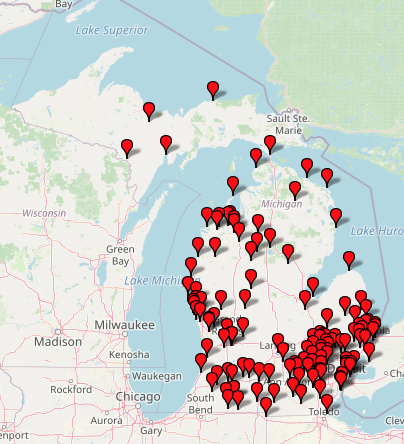
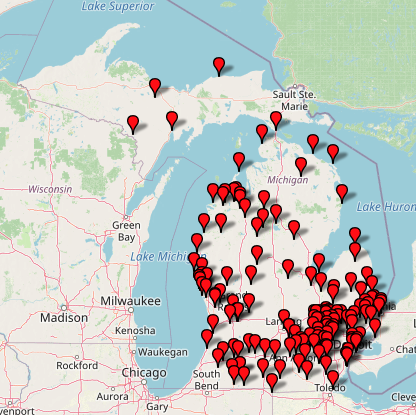
2022-06-26 6:10 PM update

diff --git a/Michigan_Tag-O-Rama_map.html b/Michigan_Tag-O-Rama_map.html
@@ -1,10 +1,10 @@
-<!DOCTYPE html>
+<!DOCTYPE html>
 <html xmlns="https://www.w3.org/1999/xhtml">
 	<head>
 		<title>Michigan_Tag-O-Rama_tags</title>
 		<base target="_top"></base>
 		<meta http-equiv="Content-Type" content="text/html; charset=UTF-8" />
-		<meta name="viewport" content="initial-scale=1.0, user-scalable=no">
+		<meta name="viewport" content="initial-scale=1.0, user-scalable=no" />
 		<meta name="geo.position" content="44.1835871; -85.1445434" />
 		<meta name="ICBM" content="44.1835871, -85.1445434" />
 	</head>
@@ -54,7 +54,7 @@
 		
 		<!-- begin GPS Visualizer setup script (must come after loading of API code) -->
 		<script type="text/javascript">
-			/* Global variables used by the GPS Visualizer functions (20211121080301): */
+			/* Global variables used by the GPS Visualizer functions (20220626150730): */
 			gv_options = {};
 			
 			// basic map parameters:
@@ -71,7 +71,7 @@
 			gv_options.doubleclick_center = true;  // true|false: re-center the map on the point that was double-clicked?
 			gv_options.scroll_zoom = true; // true|false; or 'reverse' for down=in and up=out
 			gv_options.page_scrolling = true; // true|false; does the map relenquish control of the scroll wheel when embedded in scrollable pages?
-			gv_options.autozoom_adjustment = 0;
+			gv_options.autozoom_adjustment = 0; gv_options.autozoom_default = 11;
 			gv_options.centering_options = { 'open_info_window':true, 'partial_match':true, 'center_key':'center', 'default_zoom':null } // URL-based centering (e.g., ?center=name_of_marker&zoom=14)
 			gv_options.street_view = false; // true|false: allow Google Street View on the map (Google Maps only)
 			gv_options.tilt = false; // true|false: allow Google Maps to show 45-degree tilted aerial imagery?
@@ -79,14 +79,14 @@
 			gv_options.animated_zoom = true; // true|false: only affects Leaflet maps
 			
 			// widgets on the map:
-			gv_options.zoom_control = 'large'; // 'large'|'small'|'none'
+			gv_options.zoom_control = 'auto'; // 'auto'|'large'|'small'|'none'
 			gv_options.recenter_button = true; // true|false: is there a 'click to recenter' button above the zoom control?
 			gv_options.geolocation_control = false; // true|false; only works on secure servers
 			gv_options.geolocation_options = { center:true, zoom:null, marker:true, info_window:true };
 			gv_options.scale_control = true; // true|false
 			gv_options.map_opacity_control = false;  // true|false
 			gv_options.map_type_control = {};  // widget to change the background map
-			  gv_options.map_type_control.visible = true; // true|false: is a map type control placed on the map itself?
+			  gv_options.map_type_control.visible = 'auto'; // true|false|'auto': is a map type control placed on the map itself?
 			  gv_options.map_type_control.filter = false;  // true|false: when map loads, are irrelevant maps ignored?
 			  gv_options.map_type_control.excluded = [];  // comma-separated list of quoted map IDs that will never show in the list ('included' also works)
 			gv_options.center_coordinates = true;  // true|false: show a "center coordinates" box and crosshair?
@@ -105,7 +105,7 @@
 
 			// marker-related options:
 			gv_options.default_marker = { color:'red',icon:'googlemini',scale:1 }; // icon can be a URL, but be sure to also include size:[w,h] and optionally anchor:[x,y]
-			gv_options.vector_markers = false; // are the icons on the map in embedded SVG format?
+			gv_options.vector_markers = true; // are the icons on the map in embedded SVG format?
 			gv_options.marker_tooltips = true; // do the names of the markers show up when you mouse-over them?
 			gv_options.marker_shadows = true; // true|false: do the standard markers have "shadows" behind them?
 			gv_options.marker_link_target = '_blank'; // the name of the window or frame into which markers' URLs will load
@@ -139,6 +139,7 @@
 			  gv_options.marker_list_options.collapsed_folders = []; // an array of folder names
 			  gv_options.marker_list_options.hidden_folders = []; // an array of folder names
 			  gv_options.marker_list_options.count_folder_items = false;  // true|false: list the number of items in each folder?
+			  gv_options.marker_list_options.folder_zoom = true;  // true|false: is there a zoom link next to each folder name?
 			  gv_options.marker_list_options.wrap_names = true;  // true|false: should marker's names be allowed to wrap onto more than one line?
 			  gv_options.marker_list_options.unnamed = '[unnamed]';  // what 'name' should be assigned to  unnamed markers in the list?
 			  gv_options.marker_list_options.colors = false;  // true|false: should the names/descs of the points in the list be colorized the same as their markers?
@@ -328,6 +329,25 @@
 				GV_Draw_Marker({lat:42.7480802,lon:-83.3702827,name:'10/20/2021',desc:'T.S.</br><a href=\'https://advrider.com/f/threads/michigan-tag-o-rama.890896/page-28#post-43180090\' target=\'_blank\'>Tag #131 Pine Knob east gate</a>',color:'',icon:''});
 				GV_Draw_Marker({lat:42.8158856,lon:-83.3023728,name:'10/31/2021',desc:'DJ_MI</br><a href=\'https://advrider.com/f/threads/michigan-tag-o-rama.890896/page-28#post-43237775\' target=\'_blank\'>Tag #132 Squaw Lake boat launch in Oxford</a>',color:'',icon:''});
 				GV_Draw_Marker({lat:42.5927033,lon:-83.6013930,name:'11/7/2021',desc:'T.S.</br><a href=\'https://advrider.com/f/threads/michigan-tag-o-rama.890896/page-29#post-43272084\' target=\'_blank\'>Tag #133 Milford waterfall</a>',color:'',icon:''});
+				GV_Draw_Marker({lat:42.8168332,lon:-83.6483666,name:'11/8/2021',desc:'Winger77</br><a href=\'https://advrider.com/f/threads/michigan-tag-o-rama.890896/page-29#post-43279364\' target=\'_blank\'>Tag #134 Seven Lakes State Park</a>',color:'',icon:''});
+				GV_Draw_Marker({lat:42.7195682,lon:-83.5999939,name:'12/13/2021',desc:'T.S.</br><a href=\'https://www.advrider.com/f/threads/michigan-tag-o-rama.890896/page-29#post-43461121\' target=\'_blank\'>Tag #135 Diehl\'s Orachard Cider Mill</a>',color:'',icon:''});
+				GV_Draw_Marker({lat:42.8059624,lon:-83.8816031,name:'12/15/2021',desc:'Winger77</br><a href=\'https://www.advrider.com/f/threads/michigan-tag-o-rama.890896/page-29#post-43473267\' target=\'_blank\'>Tag #136 Myers Lake Camping and Cabins</a>',color:'',icon:''});
+				GV_Draw_Marker({lat:42.2826209,lon:-84.4130630,name:'12/31/2021',desc:'Assfault</br><a href=\'https://www.advrider.com/f/threads/michigan-tag-o-rama.890896/page-29#post-43551186\' target=\'_blank\'>Tag #137 GTW Locomotive #5030 North Lawn Park on Lansing Ave In Jackson, MI http://www.rgusrail.com/migtw5030.html</a>',color:'',icon:''});
+				GV_Draw_Marker({lat:42.5491763,lon:-83.5221474,name:'3/9/2022',desc:'Winger77</br><a href=\'https://www.advrider.com/f/threads/michigan-tag-o-rama.890896/page-30#post-44185773\' target=\'_blank\'>Tag #138 Detroit Finnish Co-operative Summer Camp Association historical marker</a>',color:'',icon:''});
+				GV_Draw_Marker({lat:42.3959759,lon:-83.6636767,name:'3/10/2022',desc:'alexofnazareth</br><a href=\'https://www.advrider.com/f/threads/michigan-tag-o-rama.890896/page-30#post-44192077\' target=\'_blank\'>Tag #139 Mary-Go-Round</a>',color:'',icon:''});
+				GV_Draw_Marker({lat:42.4493948,lon:-83.8012748,name:'3/17/2022',desc:'Winger77</br><a href=\'https://www.advrider.com/f/threads/michigan-tag-o-rama.890896/page-30#post-44260151\' target=\'_blank\'>Tag #140 Hamburg Fire Department</a>',color:'',icon:''});
+				GV_Draw_Marker({lat:42.7348826,lon:-83.8820124,name:'4/10/2022',desc:'T.S.</br><a href=\'https://www.advrider.com/f/threads/michigan-tag-o-rama.890896/page-30#post-44473357\' target=\'_blank\'>Tag #141 Indian Lake Access Site DNR boat launch</a>',color:'',icon:''});
+				GV_Draw_Marker({lat:42.7058730,lon:-83.8222895,name:'4/20/2022',desc:'Winger77</br><a href=\'https://www.advrider.com/f/threads/michigan-tag-o-rama.890896/page-30#post-44564993\' target=\'_blank\'>Tag #142 Saint Augustine Catholic Church and Cemetery historical marker</a>',color:'',icon:''});
+				GV_Draw_Marker({lat:42.4897958,lon:-84.3066430,name:'5/1/2022',desc:'Assfault</br><a href=\'https://www.advrider.com/f/threads/michigan-tag-o-rama.890896/page-30#post-44656661\' target=\'_blank\'>Tag #143 Saints Cornelius and Cyprian Church historical marker</a>',color:'',icon:''});
+				GV_Draw_Marker({lat:42.5791186,lon:-84.4450458,name:'5/1/2022',desc:'Winger77</br><a href=\'https://www.advrider.com/f/threads/michigan-tag-o-rama.890896/page-30#post-44659707\' target=\'_blank\'>Tag #144 City of Mason, Mason Public Schools</a>',color:'',icon:''});
+				GV_Draw_Marker({lat:42.8036097,lon:-83.8541864,name:'5/14/2022',desc:'T.S.</br><a href=\'https://www.advrider.com/f/threads/michigan-tag-o-rama.890896/page-30#post-44774195\' target=\'_blank\'>Tag #145 Shiawasee River Hertiage Water Trail McCaslin Lk. Rd.</a>',color:'',icon:''});
+				GV_Draw_Marker({lat:42.8016014,lon:-83.0129466,name:'5/15/2022',desc:'TheLebowski</br><a href=\'https://www.advrider.com/f/threads/michigan-tag-o-rama.890896/page-30#post-44784865\' target=\'_blank\'>Tag #146 mural, artist\'s webpage http://www.ncolemacdonald.com/#/new-gallery-4/</a>',color:'',icon:''});
+				GV_Draw_Marker({lat:42.6476704,lon:-83.0605165,name:'5/21/2022',desc:'DJ_MI</br><a href=\'https://www.advrider.com/f/threads/michigan-tag-o-rama.890896/page-31#post-44838625\' target=\'_blank\'>Tag #147 Utica Nike Base historical marker</a>',color:'',icon:''});
+				GV_Draw_Marker({lat:42.8091121,lon:-83.3756984,name:'6/4/2022',desc:'T.S.</br><a href=\'https://www.advrider.com/f/threads/michigan-tag-o-rama.890896/page-31#post-44958219\' target=\'_blank\'>Tag #148 Ashton Orchards Ortonville</a>',color:'',icon:''});
+				GV_Draw_Marker({lat:43.8022040,lon:-82.9968688,name:'6/11/2022',desc:'Assfault</br><a href=\'https://www.advrider.com/f/threads/michigan-tag-o-rama.890896/page-31#post-45022611\' target=\'_blank\'>Tag #149 Bad Axe Movie Theatre K of C</a>',color:'',icon:''});
+				GV_Draw_Marker({lat:43.2139292,lon:-83.4573936,name:'6/12/2022',desc:'Winger77</br><a href=\'https://www.advrider.com/f/threads/michigan-tag-o-rama.890896/page-31#post-45031421\' target=\'_blank\'>Tag #150 Otter Lake Historical Museum</a>',color:'',icon:''});
+				GV_Draw_Marker({lat:43.5314735,lon:-84.4562722,name:'6/18/2022',desc:'T.S.</br><a href=\'https://www.advrider.com/f/threads/michigan-tag-o-rama.890896/page-31#post-45083449\' target=\'_blank\'>Tag #151 The Old Time Gas Station in Breckinridge</a>',color:'',icon:''});
+				GV_Draw_Marker({lat:43.3253701,lon:-83.7394524,name:'6/19/2022',desc:'mr.awesome</br><a href=\'https://www.advrider.com/f/threads/michigan-tag-o-rama.890896/page-31#post-45090453\' target=\'_blank\'>Tag #152 Holz-Brücke Wooden Bridge</a>',color:'',icon:''});
 				
 				GV_Finish_Map();
 					
